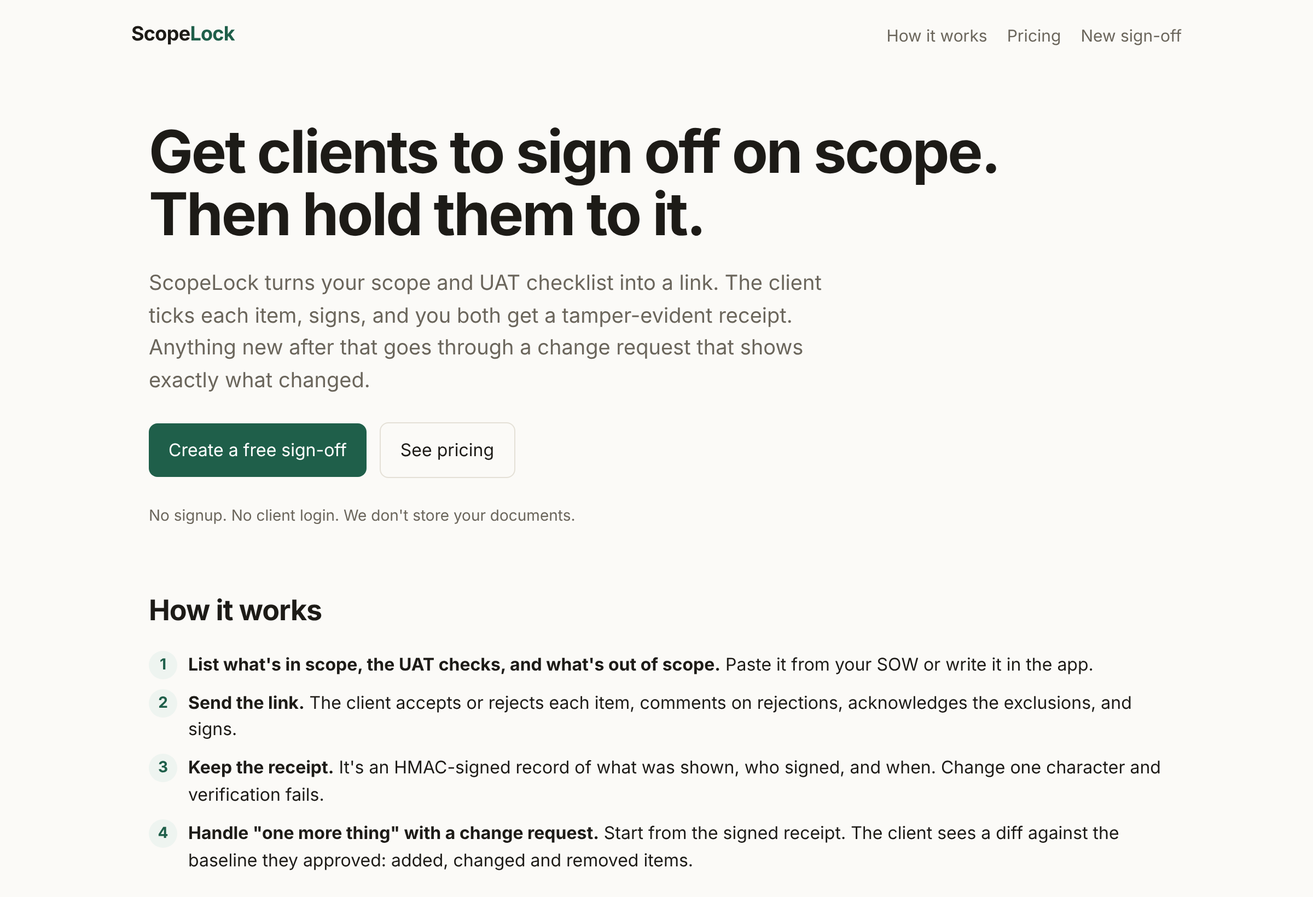
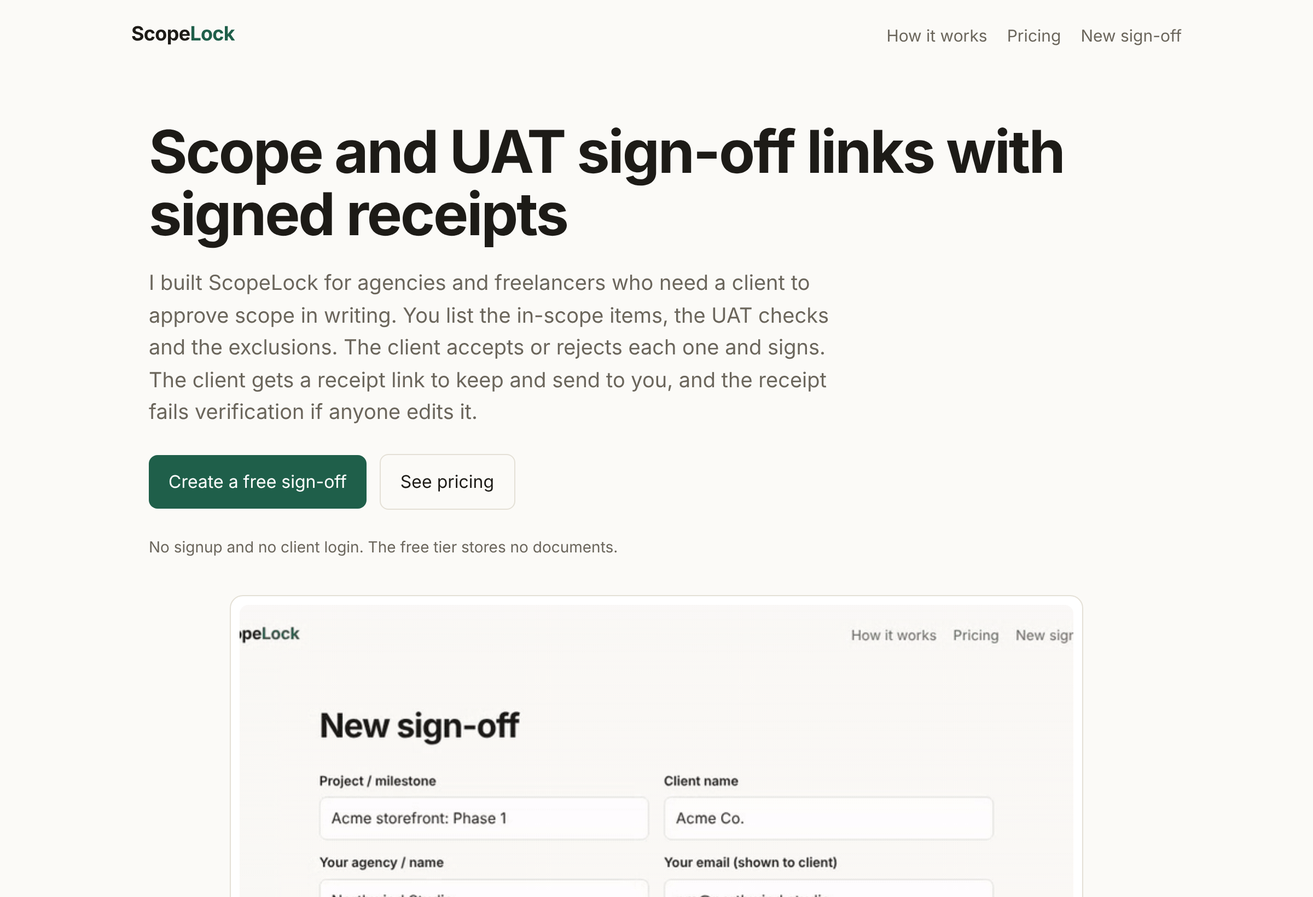
Rewrite ScopeLock copy in the owner's voice (#2)
* Rewrite ScopeLock copy in the owner's voice

Landing, README, privacy page and launch kit. Plain first person, no emoji,
no em dashes, US spelling, sentence case. Removes claims the product does not
support (locked-for-life pricing, free forever, years of fixed-price work).
Copy only: no restyle, no behavior change.

Claude-Session: https://claude.ai/code/session_018suWfbHAaiexmWDWaixtiP

* Point early access buttons at the waitlist; link privacy contact to the contact form

Claude-Session: https://claude.ai/code/session_018suWfbHAaiexmWDWaixtiP

* Fix copy accuracy found in review of the voice rewrite

- The client gets the receipt link; nothing is sent to the agency
- State the real size limit (about 60,000 characters per link)
- Say any change to the document fails verification
- Waitlist confirmation names the selected plan
- Privacy page: the page sends the document to the API; Stripe only if paid plans open; IP not stored
- Launch kit: five functions, repo already public, DST note, Stripe live mode as a separate step, thumbnail step back
- Regenerate screenshots and demo GIF so they show the new landing copy

Claude-Session: https://claude.ai/code/session_018suWfbHAaiexmWDWaixtiP

---------

diff --git a/public/index.html b/public/index.html
@@ -1,12 +1,12 @@
 <!doctype html><html lang="en"><head><meta charset="utf-8"><meta name="viewport" content="width=device-width,initial-scale=1"><link rel="stylesheet" href="/style.css"><link rel="icon" href="/favicon.svg"><script src="/common.js"></script>
-<title>ScopeLock</title><meta name="description" content="Send clients a link. They tick off scope and UAT items and sign. You get a tamper-evident receipt. No logins, no database.">
-<meta property="og:title" content="ScopeLock: scope and UAT sign-off links for agencies"><meta property="og:description" content="Stop scope creep with signed, tamper-evident client sign-offs and tracked change requests."></head><body>
+<title>ScopeLock</title><meta name="description" content="Scope and UAT sign-off links with signed receipts. The client accepts or rejects each item and signs. No database and no client login.">
+<meta property="og:title" content="ScopeLock: scope and UAT sign-off links"><meta property="og:description" content="Signed receipts, and change requests that show a diff against what the client approved."></head><body>
 <header class="top wrap"><a class="logo" href="/">Scope<span>Lock</span></a><nav><a href="/#how">How it works</a><a href="/#pricing">Pricing</a><a href="/new">New sign-off</a></nav></header>
 <main class="wrap">
-<h1>Get clients to sign off on scope.<br>Then hold them to it.</h1>
-<p class="lede">ScopeLock turns your scope and UAT checklist into a link. The client ticks each item, signs, and you both get a tamper-evident receipt. Anything new after that goes through a change request that shows exactly what changed.</p>
+<h1>Scope and UAT sign-off links with signed receipts</h1>
+<p class="lede">I built ScopeLock for agencies and freelancers who need a client to approve scope in writing. You list the in-scope items, the UAT checks and the exclusions. The client accepts or rejects each one and signs. The client gets a receipt link to keep and send to you, and the receipt fails verification if anyone edits it.</p>
 <div class="row" style="margin:24px 0"><a class="btn" href="/new">Create a free sign-off</a><a class="btn ghost" href="#pricing">See pricing</a></div>
-<p class="muted small">No signup. No client login. We don't store your documents.</p>
+<p class="muted small">No signup and no client login. The free tier stores no documents.</p>
 
 <figure class="card" style="padding:8px;margin:32px auto 0;max-width:780px"><img src="/img/demo.gif" width="760" height="692" alt="Demo: an agency creates a sign-off, the client accepts and rejects items and signs, then a change request shows the diff" style="width:100%;height:auto;border-radius:8px;display:block"></figure>
 <p class="muted small" style="text-align:center">Real run of the app: create, client sign-off, receipt, change request with diff.</p>
@@ -20,25 +20,25 @@
 
 <h2 id="how">How it works</h2>
 <ol class="steps">
-<li><b>List what's in scope, the UAT checks, and what's out of scope.</b> Paste it from your SOW or write it in the app.</li>
-<li><b>Send the link.</b> The client accepts or rejects each item, comments on rejections, acknowledges the exclusions, and signs.</li>
-<li><b>Keep the receipt.</b> It's an HMAC-signed record of what was shown, who signed, and when. Change one character and verification fails.</li>
-<li><b>Handle "one more thing" with a change request.</b> Start from the signed receipt. The client sees a diff against the baseline they approved: added, changed and removed items.</li>
+<li><b>List what is in scope, the UAT checks and what is out of scope.</b> Paste a list and each line becomes an item.</li>
+<li><b>Send the link.</b> The client accepts or rejects each item and must comment on any rejection. They acknowledge the exclusions and sign.</li>
+<li><b>Keep the receipt.</b> It records the document, the decisions, the signer's name and email as entered, and the time, signed with HMAC-SHA256. Any change to the document fails verification.</li>
+<li><b>Start a change request from a signed receipt for any new ask.</b> The client sees added, changed and removed items compared with what they approved.</li>
 </ol>
 
 <div class="grid" style="margin-top:28px">
-<div class="card"><h3>Tamper-evident</h3><p class="muted">Every link and receipt is signed on the server. <a href="/verify">Anyone can verify one</a>.</p></div>
-<div class="card"><h3>Zero-storage free tier</h3><p class="muted">The document lives in the link itself, so there's no database holding your clients' scope.</p></div>
-<div class="card"><h3>Change requests with diffs</h3><p class="muted">Revision 2 is linked to the revision 1 receipt, and the client sees exactly what moved.</p></div>
+<div class="card"><h3>Signed receipts</h3><p class="muted">The server signs every link and receipt. <a href="/verify">Anyone can check one</a> on the verify page.</p></div>
+<div class="card"><h3>No stored documents</h3><p class="muted">The document is inside the link, so the free tier keeps no database of your clients' scope.</p></div>
+<div class="card"><h3>Change requests with a diff</h3><p class="muted">Revision 2 points to the revision 1 receipt by hash, and the client sees what moved.</p></div>
 </div>
 
 <h2 id="pricing">Pricing</h2>
 <div class="grid">
-<div class="card"><h3>Free</h3><div class="price">$0</div><ul class="ticks"><li>Unlimited sign-off links</li><li>Signed receipts with public verification</li><li>Change requests with diffs</li><li>"Sealed with ScopeLock" footer</li></ul><a class="btn ghost" href="/new">Start now</a></div>
-<div class="card"><h3>Pro <span class="pill">Early access</span></h3><div class="price">$19<small>/month</small></div><ul class="ticks"><li>Saved workspace and history</li><li>Email when a client signs or rejects</li><li>Your logo and colours</li><li>PDF receipts and a change-request log</li></ul><a class="btn" id="buy-pro" href="/api/checkout?plan=pro">Get early access</a></div>
-<div class="card"><h3>Agency</h3><div class="price">$49<small>/month</small></div><ul class="ticks"><li>Everything in Pro</li><li>10 seats</li><li>White-label portal on your domain</li><li>API and webhooks</li></ul><a class="btn ghost" id="buy-agency" href="/api/checkout?plan=agency">Get early access</a></div>
+<div class="card"><h3>Free</h3><div class="price">$0</div><ul class="ticks"><li>No cap on sign-off links, receipts or change requests</li><li>Public verification page</li><li>Change requests with a diff</li><li>Limits: up to 100 items of 600 characters each, within one link of about 60,000 characters</li></ul><a class="btn ghost" href="/new">Start now</a></div>
+<div class="card"><h3>Pro <span class="pill">Early access</span></h3><div class="price">$19<small>/month</small></div><p class="muted small">Not built yet. Planned:</p><ul class="ticks"><li>Saved workspace and history</li><li>Email when a client signs or rejects</li><li>Your logo and colors</li><li>PDF receipts and a change request log</li></ul><a class="btn" id="buy-pro" href="/?plan=pro#waitlist">Join the Pro waitlist</a></div>
+<div class="card"><h3>Agency <span class="pill">Early access</span></h3><div class="price">$49<small>/month</small></div><p class="muted small">Not built yet. Planned:</p><ul class="ticks"><li>Everything in Pro</li><li>10 seats</li><li>Your own domain for the client portal</li><li>API and webhooks</li></ul><a class="btn ghost" id="buy-agency" href="/?plan=agency#waitlist">Join the Agency waitlist</a></div>
 </div>
-<p class="muted small">Early-access subscribers lock in this price for life. Pro and Agency features ship in stages, and you can cancel any time.</p>
+<p class="muted small">Pro and Agency are not built yet. These are the planned early access prices. Join the waitlist and I will email you when either one opens.</p>
 
 <h2 id="waitlist">Join the waitlist</h2>
 <form id="wl" class="card" style="max-width:520px">
@@ -47,12 +47,12 @@
 <label for="wl-note">What do you need sign-off on? (optional)</label><input id="wl-note" maxlength="300">
 <input name="company" id="wl-hp" tabindex="-1" autocomplete="off" class="hidden" aria-hidden="true">
 <p class="err" id="wl-err"></p><button class="btn" type="submit">Join</button>
-<p id="wl-ok" class="hidden banner">Thanks, you're on the list. We'll email you when Pro opens.</p>
+<p id="wl-ok" class="hidden banner">You are on the list.</p>
 </form>
 
 <h2>FAQ</h2>
-<p><b>Is this a legally binding e-signature?</b><br><span class="muted">It's a clear, tamper-evident record of what the client approved and when. Use it alongside your contract, not instead of a regulated e-signature such as DocuSign. Signer identity is self-declared.</span></p>
-<p><b>Where is my data?</b><br><span class="muted">On the free tier, inside the link. Our server signs it and keeps no copy. Keep your receipt link somewhere safe.</span></p>
-</main>
+<p><b>Is this a legally binding e-signature?</b><br><span class="muted">No. It is a signed record of what the client approved and when. Use it next to your contract, not instead of a regulated e-signature service. The signer's identity is self-declared.</span></p>
+<p><b>Where is my data?</b><br><span class="muted">On the free tier, inside the link. The server signs it and keeps no copy, so save your receipt link somewhere safe.</span></p>
+<p class="muted small" style="margin-top:40px">Built by Tahmid Rafi, Lead Full Stack Software Engineer &amp; Solutions Architect, Bangkok.</p></main>
 <footer><div class="wrap row" style="justify-content:space-between"><span>ScopeLock · tamper-evident sign-off links</span><span><a href="/privacy">Privacy</a> · <a href="/verify">Verify a link</a></span></div></footer>
 <script src="/landing.js"></script></body></html>

diff --git a/public/privacy.html b/public/privacy.html
@@ -1,6 +1,6 @@
 <!doctype html><html lang="en"><head><meta charset="utf-8"><meta name="viewport" content="width=device-width,initial-scale=1"><link rel="stylesheet" href="/style.css"><link rel="icon" href="/favicon.svg"><script src="/common.js"></script><title>Privacy · ScopeLock</title></head><body>
 <header class="top wrap"><a class="logo" href="/">Scope<span>Lock</span></a><nav><a href="/#how">How it works</a><a href="/#pricing">Pricing</a><a href="/new">New sign-off</a></nav></header><main class="wrap" style="max-width:760px"><h1 style="font-size:36px">Privacy</h1>
-<p>On the free tier, ScopeLock stores no documents, signatures or receipts. Each one is encoded in the link and signed by our server, which keeps no copy. Links put the data in the URL fragment (after the <code>#</code>), and browsers don't send that part in requests.</p>
-<p>We store waitlist emails, plus the plan and note you give us, so we can contact you about ScopeLock. Payments are processed by Stripe.</p>
-<p>When a client signs, the receipt records the name and email they enter, the time, their country (from the IP address) and a truncated hash of their browser's user agent. It never stores the IP address itself.</p>
-<p>To delete your waitlist entry, email the address on our launch posts.</p></main><footer><div class="wrap row" style="justify-content:space-between"><span>ScopeLock · tamper-evident sign-off links</span><span><a href="/privacy">Privacy</a> · <a href="/verify">Verify a link</a></span></div></footer></body></html>
+<p>On the free tier, ScopeLock stores no documents, signatures or receipts. Each one is encoded in the link and signed by the server, which keeps no copy. The data sits in the URL fragment (after the <code>#</code>), so it is not sent when the page loads. When you open a link, the page sends the full document to the server so it can check the signature. The server handles it in memory and does not store it.</p>
+<p>I store waitlist emails, plus the plan and note you give me, so I can contact you about ScopeLock. To rate-limit sign-ups, the waitlist form also keeps a keyed hash of your IP address, not the address itself. If paid plans open, Stripe will process the payments.</p>
+<p>When a client signs, the receipt records the name and email they enter, the time, their country (from the IP address) and a truncated hash of their browser's user agent. The IP address is not stored.</p>
+<p>To remove your waitlist entry, use the <a href="https://tahmid.space/#contact">contact form</a> and ask me to delete it.</p></main><footer><div class="wrap row" style="justify-content:space-between"><span>ScopeLock · tamper-evident sign-off links</span><span><a href="/privacy">Privacy</a> · <a href="/verify">Verify a link</a></span></div></footer></body></html>

diff --git a/public/sign.js b/public/sign.js
@@ -17,7 +17,7 @@ async function init() {
   $('#notes').textContent = data.notes || '';
   if (data.parent) {
     const b = $('#cr');
-    b.textContent = `This is a change request against "${data.parent.title}", signed by ${data.parent.signer} on ${fmt(data.parent.signedAt)}. Coloured bars show added, changed and removed items.`;
+    b.textContent = `This is a change request against "${data.parent.title}", signed by ${data.parent.signer} on ${fmt(data.parent.signedAt)}. Colored bars show added, changed and removed items.`;
     b.classList.remove('hidden');
     const removed = data.parent.items.filter((p) => !data.items.some((i) => i.id === p.id));
     if (removed.length) $('#removed').append(el('h3', { text: 'Removed since the baseline', style: 'margin-top:20px' }), ...removed.map((r) => el('p', { class: 'diff-del', text: `${KIND[r.kind]}: ${r.text}` })));

diff --git a/public/landing.js b/public/landing.js
@@ -4,6 +4,10 @@ $('#wl').addEventListener('submit', async (e) => {
   $('#wl-err').textContent = '';
   try {
     await api('waitlist', { email: $('#wl-email').value, plan: $('#wl-plan').value, note: $('#wl-note').value, company: $('#wl-hp').value });
+    const plan = $('#wl-plan').value;
+    $('#wl-ok').textContent = plan === 'free'
+      ? 'You are on the list. I will email you about ScopeLock updates.'
+      : `You are on the list. I will email you when ${plan === 'pro' ? 'Pro' : 'Agency'} opens.`;
     $('#wl-ok').classList.remove('hidden');
     e.target.querySelector('button').disabled = true;
   } catch (err) { $('#wl-err').textContent = err.message; }

diff --git a/docs/LAUNCH.md b/docs/LAUNCH.md
@@ -18,10 +18,10 @@ Why ScopeLock goes first even though checkout-sentinel has more revenue: it is d
 
 ### ScopeLock (live: https://scopelock-sable.vercel.app)
 - **ICP:** freelance developers and 2–20-person web/Shopify agencies doing fixed-price work, initially in SEA and the global remote market. Buyer: agency owner or PM. Trigger: a client dispute or a "while you're at it" request.
-- **Pricing:** Free (unlimited links, receipts, change requests, ScopeLock footer). **Pro $19/mo**: workspace, email notifications, branding, PDF, CR log. **Agency $49/mo**: 10 seats, white-label domain, API/webhooks. Early-access price locked for life.
+- **Pricing:** Free (no cap on links, receipts or change requests). **Pro $19/mo**: workspace, email notifications, branding, PDF, CR log. **Agency $49/mo**: 10 seats, white-label domain, API/webhooks. Early access prices; Pro and Agency are not built yet.
 - **MVP scope (shipped):** create a sign-off (scope, UAT and out-of-scope items, paste-to-split), client sign page (accept/reject with comment, acknowledge exclusions, declaration), HMAC-signed receipt with evidence, public verify page, change requests with an added/changed/removed diff against the signed baseline, waitlist (Vercel Blob, private), Stripe Payment Links (test), privacy page.
 - **Next for Pro (build only after 10 paid or 50 waitlist sign-ups):** auth plus Postgres workspace; Resend email on sign/reject; logo; PDF via @react-pdf or Playwright; signer email OTP.
-- **Stack:** static HTML/CSS/vanilla JS plus four Node serverless functions; `crypto` HMAC; `@vercel/blob`; Stripe Payment Links. No analytics: success is measured by waitlist sign-ups (Blob) and Stripe checkouts.
+- **Stack:** static HTML/CSS/vanilla JS plus five Node serverless functions; `crypto` HMAC; `@vercel/blob`; Stripe Payment Links. No analytics: success is measured by waitlist sign-ups (Blob) and Stripe checkouts.
 - **Hosting:** Vercel project `scopelock` (team "My Projects"), production alias `scopelock-sable.vercel.app`. Env: `SIGNING_SECRET` (sensitive), `BLOB_READ_WRITE_TOKEN` (linked store `scopelock-waitlist`), `STRIPE_LINK_PRO` and `STRIPE_LINK_AGENCY` (test links). Cost: $0 on Hobby until traffic grows (switch to Pro if it is used commercially, per Vercel ToS).
 
 ### checkout-sentinel
@@ -49,93 +49,101 @@ Why ScopeLock goes first even though checkout-sentinel has more revenue: it is d
 
 | Repo | Polish before its launch | README hero line | Demo GIF (≤ 20 s, 800 px wide) | Topics |
 |---|---|---|---|---|
-| **checkout-sentinel** | Enable Pages for the v0.3 dashboard; add a "Deploy in 5 min" compose section at the top; badges (CI, license, release); CHANGELOG v0.3 | "Find out your Shopify/WooCommerce checkout is broken before your customers do." | Break the fixture's Add to cart → mobile run fails → Slack alert with screenshot → fix → recovery alert | `shopify` `woocommerce` `synthetic-monitoring` `playwright` `ecommerce` `checkout` `uptime-monitoring` `nestjs` `bullmq` `vue3` `self-hosted` `observability` |
-| **scopelock** (new; repo not created yet, see blockers) | Push the local repo; social preview from `docs/landing.png`; add a GitHub Action running `npm test` | "Get clients to sign off on scope. Then hold them to it." | New sign-off → client accepts/rejects → receipt → change request showing the CHANGED/ADDED diff (the `docs/*.png` frames are ready) | `agency` `freelance` `scope-creep` `uat` `sign-off` `hmac` `tamper-evident` `serverless` `vercel` `no-database` `project-management` |
-| **shopify-ucp** | Fix the 9 known issues first (P3 list), add the read-only MCP playground. **Don't promote until the playground works** | "Make any Shopify store callable by AI agents over MCP." | Agent asks "waterproof jackets under $150" → `tools/call` trace → products | `mcp` `model-context-protocol` `shopify` `shopify-app` `ai-agents` `agentic-commerce` `remix` `polaris` |
-| **sun-ui** | Register the npm scope and publish 0.1.0; add a "SaaS settings screen" example; link Storybook in the About box | "26 MUI v7 components, one variant/color/size API, light and dark tokens." | Change the variant prop across components → toggle dark mode → token table | `react` `mui` `design-system` `component-library` `storybook` `design-tokens` `typescript` `dark-mode` |
-| **promptpay-storefront** | QR preview is live (PR #6). Add a "WooCommerce plugin waitlist" CTA plus a Stripe link | "PromptPay QR payments for WooCommerce, with exact totals, slip upload and duplicate-slip rejection." | Type a PromptPay ID and amount → QR renders → scan it on a phone | `promptpay` `thailand` `woocommerce` `qr-code` `emvco` `payments` `wordpress-plugin` |
+| **checkout-sentinel** | Enable Pages for the v0.3 dashboard; add a "Deploy in 5 min" compose section at the top; badges (CI, license, release); CHANGELOG v0.3 | "Find out your Shopify/WooCommerce checkout is broken before your customers do." | Break the fixture's Add to cart then mobile run fails then Slack alert with screenshot then fix then recovery alert | `shopify` `woocommerce` `synthetic-monitoring` `playwright` `ecommerce` `checkout` `uptime-monitoring` `nestjs` `bullmq` `vue3` `self-hosted` `observability` |
+| **scopelock** (repo is public) | Set topics and a social preview from `docs/img/01-landing.png`; add a GitHub Action running `npm test` | "Scope and UAT sign-off links with signed receipts." | New sign-off then client accepts/rejects then receipt then change request showing the CHANGED/ADDED diff (the frames in `docs/img/` are ready) | `agency` `freelance` `scope-creep` `uat` `sign-off` `hmac` `tamper-evident` `serverless` `vercel` `no-database` `project-management` |
+| **shopify-ucp** | Fix the 9 known issues first (P3 list), add the read-only MCP playground. **Don't promote until the playground works** | "Make any Shopify store callable by AI agents over MCP." | Agent asks "waterproof jackets under $150" then `tools/call` trace then products | `mcp` `model-context-protocol` `shopify` `shopify-app` `ai-agents` `agentic-commerce` `remix` `polaris` |
+| **sun-ui** | Register the npm scope and publish 0.1.0; add a "SaaS settings screen" example; link Storybook in the About box | "26 MUI v7 components, one variant/color/size API, light and dark tokens." | Change the variant prop across components then toggle dark mode then token table | `react` `mui` `design-system` `component-library` `storybook` `design-tokens` `typescript` `dark-mode` |
+| **promptpay-storefront** | QR preview is live (PR #6). Add a "WooCommerce plugin waitlist" CTA plus a Stripe link | "PromptPay QR payments for WooCommerce, with exact totals, slip upload and duplicate-slip rejection." | Type a PromptPay ID and amount then QR renders then scan it on a phone | `promptpay` `thailand` `woocommerce` `qr-code` `emvco` `payments` `wordpress-plugin` |
 | **gmail-auto-unsubscribe** | PR #6 merged (demo GIF). Submit to the Chrome Web Store ($5 developer fee, owner); add a privacy section near the top | "Unsubscribe from every Gmail newsletter in one click, without the extension ever reading your mail." | The existing 15 s run GIF | `chrome-extension` `gmail` `unsubscribe` `privacy` `manifest-v3` `productivity` `email` |
 
 ---
 
 ## 4. Launch kit for ScopeLock (drafts; the owner posts)
 
-> Before posting: (1) the owner approves Stripe live mode, then the live links replace the `STRIPE_LINK_*` env values; (2) the GitHub repo is public; (3) optionally a custom domain (for example `scopelock.app`, check price first).
+Voice rules applied: plain first person, no emoji, no em dashes, sentence case, US spelling, no slogan. Every claim below is something the product or the repo supports. I make no claim about your past client work; add one yourself if you want it.
+
+Before posting:
+1. The GitHub repo is already public. Set the topics, the social preview and the About link.
+2. Optional: a custom domain. Check the price first.
+
+Separate, owner-approved step, not a launch blocker: Stripe live mode. The landing page only has waitlist buttons today, so no payment can happen until live mode is approved and the buttons are pointed at checkout again.
 
 ### Product Hunt
-- **Name:** ScopeLock
-- **Tagline (≤ 60):** Client sign-off on scope and UAT, with tamper-evident receipts
-- **Topics:** Productivity, Freelance, SaaS, Developer Tools
-- **Description (≤ 260):** Turn your SOW checklist into a link. Clients accept or reject each item and sign, and you both get an HMAC-signed receipt that anyone can verify. New asks become change requests that show exactly what changed. Free, with no signup and no database.
-- **Gallery:** `docs/landing.png`, `new.png`, `sign.png`, `receipt.png`, `change-request.png`, plus the GIF
-- **Maker comment:**
-  > Hi PH! I'm Tahmid, a lead full-stack engineer in Bangkok. I've spent years shipping fixed-price projects for agencies, and the most expensive sentence in that work is "I thought that was included."
-  >
-  > So I built ScopeLock. You list what's in scope, the UAT checks, and what's explicitly out. Your client gets a link, ticks every item (a rejection needs a comment), acknowledges the exclusions, and signs. You both get a receipt that's cryptographically signed: change one character and verification fails.
-  >
-  > The part I like most: when the client comes back with "one small thing", you start a change request from the signed receipt, and they see the diff against what they already approved.
-  >
-  > The free tier stores nothing. The whole document lives in the link's URL fragment. Pro (saved workspace, email alerts, branding, PDF) is in early access at $19/mo, locked for life.
-  >
-  > I'd love feedback from anyone who's lived through scope creep. What would you need before you'd send this to a client?
+
+- Name: ScopeLock
+- Tagline (60 characters max): Scope and UAT sign-off links with signed receipts
+- Topics: Productivity, Freelance, SaaS, Developer Tools
+- Description (260 characters max): ScopeLock turns a scope and UAT checklist into a link. The client accepts or rejects each item and signs. The client gets an HMAC-signed receipt link that anyone can verify, and new asks become change requests with a diff. No signup and no database on the free tier.
+- Gallery: `docs/img/01-landing.png`, `02-create.png`, `04-client-review.png`, `05-receipt.png`, `07-client-diff.png`, and `demo.gif`
+- Maker comment:
+
+> I'm Tahmid Rafi, a Lead Full Stack Software Engineer & Solutions Architect in Bangkok. I built ScopeLock to settle one sentence: "I thought that was included."
+>
+> You list what is in scope, the UAT checks and what is out of scope. The client gets a link, accepts or rejects each item (a rejection needs a comment), acknowledges the exclusions and signs. The client gets a receipt link signed with HMAC-SHA256, to keep and send to you. Any change to the document fails verification.
+>
+> For a new ask, you start a change request from the signed receipt. The client sees added, changed and removed items compared with what they approved.
+>
+> The free tier stores no documents. The document is in the link's URL fragment, and the waitlist stores an email address and a keyed IP hash. Pro and Agency are planned and not built yet, at $19 and $49 per month. You can join the waitlist for either.
+>
+> What would you need to see before you send this to a client?
 
 ### Show HN
-- **Title:** Show HN: ScopeLock – Scope sign-off links with HMAC receipts and no database
-- **Body:**
-  > I run fixed-price web projects, and most disputes come down to "was that in scope?". ScopeLock is a small tool for that: the agency lists in-scope items, UAT checks and exclusions; the client gets a link, accepts or rejects each one and signs; both keep a signed receipt.
-  >
-  > Implementation, since HN will ask: there's no database. The document is JSON, base64url-encoded and HMAC-SHA256-signed by the server (`v1.<payload>.<mac>`), and it lives in the URL fragment, so it never hits server logs. Signing returns a receipt token that embeds the document, its SHA-256, the decisions, a timestamp, the country and a UA hash, signed the same way. "Verify" recomputes the MAC. A change request embeds the parent receipt's hash and items, so the client sees a diff against the baseline.
-  >
-  > Known limits: signer identity is self-declared (no OTP yet), and rotating the server secret invalidates old links unless I add key IDs, which is next. It's a record of agreement, not a qualified e-signature.
-  >
-  > Static HTML plus four Node functions on Vercel, about 500 lines, MIT: github.com/tahmidbintaslim/scopelock. Live: https://scopelock-sable.vercel.app
-  >
-  > I'd especially like critique of the threat model, and to hear whether "stateless" is a feature or a footgun for something like this.
+
+- Title: Show HN: ScopeLock, scope sign-off links with HMAC receipts and no database
+- Body:
+
+> ScopeLock turns a scope and UAT checklist into a link. The client accepts or rejects each item and signs, and the client gets a signed receipt link to keep and send to the agency.
+>
+> How it works: there is no database. The document is JSON, base64url-encoded and signed by the server with HMAC-SHA256 as `v1.<payload>.<mac>`. It lives in the URL fragment, so it does not reach server logs. Signing returns a receipt token that embeds the document, its SHA-256, the decisions, a timestamp, the country and a user agent hash, signed the same way. Verify recomputes the MAC with a constant-time compare. A change request embeds the parent receipt's hash and items, so the client sees a diff against the baseline.
+>
+> Limits: signer identity is self-declared, and there is no email check yet. Rotating the server secret invalidates every old link until I add key IDs. It is a record of agreement, not a qualified e-signature.
+>
+> The code is about 500 lines of JavaScript and CSS plus HTML: five serverless functions on Vercel and static pages. MIT license: github.com/tahmidbintaslim/scopelock. Live: https://scopelock-sable.vercel.app
+>
+> I would like critique of the threat model, and opinions on whether keeping no state is a feature or a liability for this kind of tool.
 
 ### X thread
-1. Most agency disputes come down to one sentence: "I thought that was included." I built a free tool to end that argument. ScopeLock: client sign-off on scope and UAT, with tamper-evident receipts. [GIF]
-2. You list what's in scope, the UAT checks, and what's explicitly out. The client gets a link and accepts or rejects every item. A rejection needs a comment, and exclusions need an explicit "acknowledged".
-3. When they sign, you both get a receipt that's HMAC-signed by the server. Change one character and verification fails, and anyone can verify it.
-4. The part I'm proudest of: "one more small thing?" Start a change request from the signed receipt, and the client sees exactly what was added or changed against what they already approved. [change-request.png]
-5. The free tier stores nothing. The whole doc lives in the URL fragment: no DB, no signup, no client login.
-6. Free forever for links and receipts. Pro (workspace, email alerts, branding, PDF) is in early access at $19/mo, locked for life. Try it: https://scopelock-sable.vercel.app. Code (MIT): github.com/tahmidbintaslim/scopelock
+
+1. Scope disputes usually come down to one sentence: "I thought that was included." I built ScopeLock for that. It turns a scope and UAT checklist into a sign-off link with a signed receipt. [demo.gif]
+2. You list what is in scope, the UAT checks and what is out. The client accepts or rejects every item. A rejection needs a comment, and each exclusion needs an explicit acknowledgment.
+3. When the client signs, they get a receipt link signed with HMAC-SHA256 to keep and send to you. Any change to the document fails verification, and anyone can check one on the verify page.
+4. For a new ask, start a change request from the signed receipt. The client sees added, changed and removed items compared with what they approved. [07-client-diff.png]
+5. The free tier stores no documents. The document sits in the URL fragment. There is no database, no signup and no client login.
+6. Pro and Agency are planned and not built yet, at $19 and $49 per month, with a waitlist for each. Try it: https://scopelock-sable.vercel.app. Code, MIT: github.com/tahmidbintaslim/scopelock
 
 ### LinkedIn
-> Scope creep isn't a client problem. It's a paperwork problem.
->
-> After years of leading fixed-price builds, I noticed the expensive disputes never came from bad intent. They came from "I thought that was included," plus a PDF nobody re-read.
->
-> So I built ScopeLock, a free tool that turns your scope and UAT checklist into a sign-off link:
-> - the client accepts or rejects every item (a rejection needs a comment)
-> - exclusions must be explicitly acknowledged
-> - both sides get a tamper-evident, cryptographically signed receipt
-> - every later request becomes a change request with a clear diff
->
-> No signup, and no database on the free tier. The document lives in the link.
->
-> If you run an agency or freelance, I'd value your honest feedback: would you send this to a client? https://scopelock-sable.vercel.app
->
-> #freelancing #agency #projectmanagement #webdevelopment #buildinpublic
 
-### Claude / MCP directories
-ScopeLock is **not an MCP server** today, so don't list it. A good follow-up (about 1 day of work): a small `scopelock-mcp` server with `create_signoff(items)` and `verify_receipt(url)` tools, so agents drafting SOWs can mint sign-off links. Once it exists, list it on the official MCP Registry (registry.modelcontextprotocol.io), mcp.so, Smithery and Glama. **shopify-ucp** is the repo that genuinely fits these directories, after its playground works.
+> I built ScopeLock, a tool that turns a scope and UAT checklist into a sign-off link.
+>
+> The client accepts or rejects each item, comments on any rejection, acknowledges the exclusions and signs. The client gets a receipt link signed with HMAC-SHA256. A later request becomes a change request that shows added, changed and removed items compared with what the client approved.
+>
+> The free tier has no signup, no client login and no database. The document lives in the link.
+>
+> I'm Tahmid Rafi, a Lead Full Stack Software Engineer & Solutions Architect in Bangkok. If you run an agency or freelance, I would like to know whether you would send this to a client, and what is missing.
+>
+> https://scopelock-sable.vercel.app
 
-### Launch-day checklist (ScopeLock)
-**T-7 to T-2 days**
-- [ ] Owner approves Stripe live mode → create live Payment Links → update `STRIPE_LINK_PRO` and `STRIPE_LINK_AGENCY` → redeploy → do one real $19 purchase and refund it
-- [ ] Create a public `tahmidbintaslim/scopelock` repo, push, set topics, social preview, About link
-- [ ] Record the 20 s GIF (the flow from the screenshots); make a 1270×760 PH thumbnail
-- [ ] Optional: buy a domain and add it to the project; update the Stripe redirect URLs
-- [ ] Schedule PH for **Tuesday–Thursday, 00:01 PT** (14:01 Bangkok); line up 10 people to try it and comment honestly (no vote-begging)
+### Claude and MCP directories
 
-**Launch day (Bangkok times)**
-- [ ] 14:01: PH goes live → post the maker comment
-- [ ] 14:15: X thread, LinkedIn post (link in the first comment if reach drops)
-- [ ] 20:00–21:00 (US morning): Show HN. Stay to answer every comment for 3 hours, with technical answers and no marketing tone
-- [ ] Every 2 h: check Vercel runtime errors and logs, the waitlist count (Blob `waitlist/`), Stripe test or live checkouts
-- [ ] Reply to every PH and HN comment within 30 min
+ScopeLock is not an MCP server, so there is nothing to list. A follow-up of about one day: a small `scopelock-mcp` server with `create_signoff(items)` and `verify_receipt(url)` tools. Once it exists, list it on the official MCP Registry (registry.modelcontextprotocol.io), mcp.so, Smithery and Glama. shopify-ucp fits those directories better, after its playground works.
 
-**T+1 to T+7**
-- [ ] Email waitlist sign-ups personally (first 50) and ask for a 15-min call
-- [ ] Post a "what I learned" follow-up on X/LinkedIn with real numbers
-- [ ] Decide on the Pro build go/no-go: ≥10 paid early-access or ≥50 Pro/Agency waitlist sign-ups → build the workspace and email notifications
+### Launch-day checklist
+
+T-7 to T-2 days
+- [ ] Set the topics, social preview and About link on `tahmidbintaslim/scopelock` (it is already public)
+- [ ] Make a 1270 by 760 thumbnail for Product Hunt and crop the gallery screenshots to that size; the full-page captures are too tall
+- [ ] Optional: buy a domain and add it to the project
+- [ ] Separate step, only when you approve it: Stripe live mode (live Payment Links, then update `STRIPE_LINK_PRO` and `STRIPE_LINK_AGENCY`, point the Pro and Agency buttons at `/api/checkout` again, redeploy, make one real $19 purchase and refund it)
+- [ ] Schedule Product Hunt for Tuesday to Thursday at 00:01 PT. That is 14:01 in Bangkok until the US moves to standard time on November 1, 2026, and 15:01 after that. Ask 10 people to try it and comment honestly
+
+Launch day (Bangkok time)
+- [ ] Product Hunt goes live (00:01 PT); post the maker comment
+- [ ] 15 minutes later: X thread and LinkedIn post
+- [ ] About 13:00 UTC (US morning, 20:00 in Bangkok) Show HN; stay for 3 hours and answer every comment with technical detail
+- [ ] Every 2 hours: Vercel runtime errors and logs, the waitlist count (Blob `waitlist/`)
+- [ ] Reply to every Product Hunt and Hacker News comment within 30 minutes
+
+T+1 to T+7 days
+- [ ] Email the first 50 waitlist sign-ups personally and ask for a 15 minute call
+- [ ] Post a follow-up with real numbers
+- [ ] Decide on building Pro: 10 paid early access sign-ups, or 50 Pro or Agency waitlist sign-ups

diff --git a/README.md b/README.md
@@ -1,17 +1,17 @@
 <p align="center"><img src="public/favicon.svg" width="56" alt=""></p>
 <h1 align="center">ScopeLock</h1>
-<p align="center"><b>Tamper-evident scope and UAT sign-off links for agencies.</b><br>
-The client ticks each item and signs, and you both get an HMAC-signed receipt. Every later "one more thing" becomes a change request with a diff.<br>
-No database. No client login.</p>
+<p align="center"><b>Scope and UAT sign-off links with signed receipts.</b><br>
+The client accepts or rejects each item and signs, and the client gets an HMAC-signed receipt link to keep and send to the agency. A later request becomes a change request that shows a diff.<br>
+No database and no client login.</p>
 <p align="center"><a href="https://scopelock-sable.vercel.app">Live app</a> · <a href="#how-it-works">How it works</a> · <a href="#self-host">Self-host</a></p>
 
-<p align="center"><a href="https://scopelock-sable.vercel.app"><b>▶ Try the live demo</b></a> &nbsp;·&nbsp; free, no signup</p>
+<p align="center"><a href="https://scopelock-sable.vercel.app"><b>Try the live demo</b></a> &nbsp;·&nbsp; free, no signup</p>
 
 <p align="center"><img src="docs/img/demo.gif" width="760" alt="Demo: an agency creates a sign-off, the client accepts and rejects items and signs, then a change request shows the diff"></p>
 
 ## Why
 
-Most agency disputes come down to one sentence: *"I thought that was included."* A PDF SOW and an email that says "looks good" don't settle it. ScopeLock records **what was shown, what was approved or rejected, by whom and when**, in a form neither side can quietly edit later.
+Scope disputes usually come down to one sentence: "I thought that was included." A PDF and an email that says "looks good" do not settle it. ScopeLock records what was shown, what was approved or rejected, who signed and when, in a form neither side can edit without verification failing.
 
 ## Screenshots
 
@@ -23,27 +23,27 @@ Most agency disputes come down to one sentence: *"I thought that was included."*
 | **5. Anyone can verify a link** | **6. An edited link fails verification** |
 | <img src="docs/img/08-verify.png" alt="Verify page confirming a valid receipt"> | <img src="docs/img/09-tampered.png" alt="Verify page rejecting a receipt whose signer name was edited"> |
 
-<p align="center"><img src="docs/img/10-mobile.png" width="280" alt="Client sign page on a phone"><br><sub>Works on a phone, which is where most clients open the link.</sub></p>
+<p align="center"><img src="docs/img/10-mobile.png" width="280" alt="Client sign page on a phone"><br><sub>The client page on a phone.</sub></p>
 
 ## How it works
 
-1. **Seal.** The agency lists in-scope items, UAT checks and out-of-scope exclusions. `POST /api/seal` returns `v1.<base64url(json)>.<hmac>`, and that token is the whole document.
-2. **Sign.** The client opens `/sign#<token>`. The data sits in the URL fragment, so it never reaches server logs. They accept or reject each item (a rejection needs a comment), acknowledge the exclusions and sign. `POST /api/sign` checks the token and returns a signed **receipt** that embeds the document, its SHA-256, the decisions, the signer, a timestamp, the country and a UA hash.
-3. **Verify.** `/verify` (or `POST /api/verify`) recomputes the HMAC. If a single byte changed, verification fails.
-4. **Change request.** "Start a change request" on a receipt seals revision *n+1* linked to the baseline receipt's hash. The client sees **added / changed / removed** items relative to what they approved before.
+1. **Seal.** The agency lists in-scope items, UAT checks and out-of-scope exclusions. `POST /api/seal` returns `v1.<base64url(json)>.<hmac>`. That token is the whole document.
+2. **Sign.** The client opens `/sign#<token>`. The data sits in the URL fragment, so it is not part of the page request. The page then sends it in the body of an API call that checks the signature and stores nothing. They accept or reject each item (a rejection needs a comment), acknowledge the exclusions and sign. `POST /api/sign` checks the token and returns a signed **receipt** that embeds the document, its SHA-256, the decisions, the signer, a timestamp, the country and a UA hash.
+3. **Verify.** `/verify` (or `POST /api/verify`) recomputes the HMAC. If the document changed, verification fails.
+4. **Change request.** "Start a change request" on a receipt seals revision *n+1* linked to the baseline receipt's hash. The client sees added, changed and removed items compared with what they approved.
 
-| | Free (this repo) | Pro $19/mo | Agency $49/mo |
+| | Free (this repo) | Pro, planned, $19/mo | Agency, planned, $49/mo |
 |---|---|---|---|
 | Unlimited sign-off links, receipts, change requests | Yes | Yes | Yes |
 | Saved workspace, email notifications, branding, PDF | No | Yes | Yes |
 | Seats, white-label domain, API/webhooks | No | No | Yes |
 
-## Security model (read this before relying on it)
+## Security model
 
-* Integrity comes from HMAC-SHA256 with a server secret, compared in constant time. Tokens can't be forged or edited without `SIGNING_SECRET`.
-* Signer identity is **self-declared**: the receipt shows what the person who opened the link claimed. It is a sign-off record, not an eIDAS or ESIGN qualified signature.
-* If you rotate the secret, every existing link stops verifying. To rotate safely, add key IDs (`v2.<kid>.…`), which is on the roadmap.
-* Inputs are size-limited (64 KB body, 100 items, 600 chars per item). Waitlist sign-ups are rate-limited per IP (5 per 10 min), with counters in Blob under a keyed hash, so raw IPs are never stored. The UI renders everything with `textContent`, under a strict CSP.
+* Integrity comes from HMAC-SHA256 with a server secret, compared in constant time. A token cannot be forged or edited without `SIGNING_SECRET`.
+* Signer identity is self-declared: the receipt shows what the person who opened the link entered. It is a sign-off record, not an eIDAS or ESIGN qualified signature.
+* Rotating the secret makes every existing link fail verification. Key IDs (`v2.<kid>.…`) would fix that, and they are on the roadmap.
+* Inputs are size-limited (64 KB body, up to 100 items of 600 characters each, and about 60,000 characters per link). Waitlist sign-ups are rate-limited per IP (5 per 10 min), with counters in Blob under a keyed hash, so raw IPs are never stored. The UI renders everything with `textContent`, under a strict CSP.
 
 ## Self-host
 
@@ -55,7 +55,7 @@ npm install && npm test
 npx vercel deploy
 ```
 
-No framework and no build step: static files in `public/` plus four Node functions in `api/`.
+No framework and no build step: static files in `public/` plus five Node functions in `api/`.
 
 ### Run it locally
 
@@ -65,15 +65,19 @@ SIGNING_SECRET=$(openssl rand -base64 32) npm run dev   # http://localhost:3000,
 
 `scripts/capture-screenshots.js` regenerates everything in `docs/img/` from a real run against the dev server.
 
-**Payments:** checkout uses Stripe Payment Links in **test mode** for now. Pro and Agency are early access.
+Payments: Pro and Agency are not built yet, so the landing page links to the waitlist. The `/api/checkout` route and the Stripe test-mode links stay in place for when live mode is approved.
 
 ## Roadmap
 
 - [ ] Key IDs and secret rotation
-- [ ] Pro: accounts and a workspace (Postgres), email on sign/reject, logo and colours, server-rendered PDF
+- [ ] Pro: accounts and a workspace (Postgres), email on sign/reject, logo and colors, server-rendered PDF
 - [ ] Email OTP to confirm signer identity (optional per document)
 - [ ] Import from Markdown, Notion or Google Docs checklists
 - [ ] Agency: webhooks, seats, custom domain
+
+## Author
+
+Tahmid Rafi, Lead Full Stack Software Engineer & Solutions Architect, Bangkok.
 
 ## License
 
